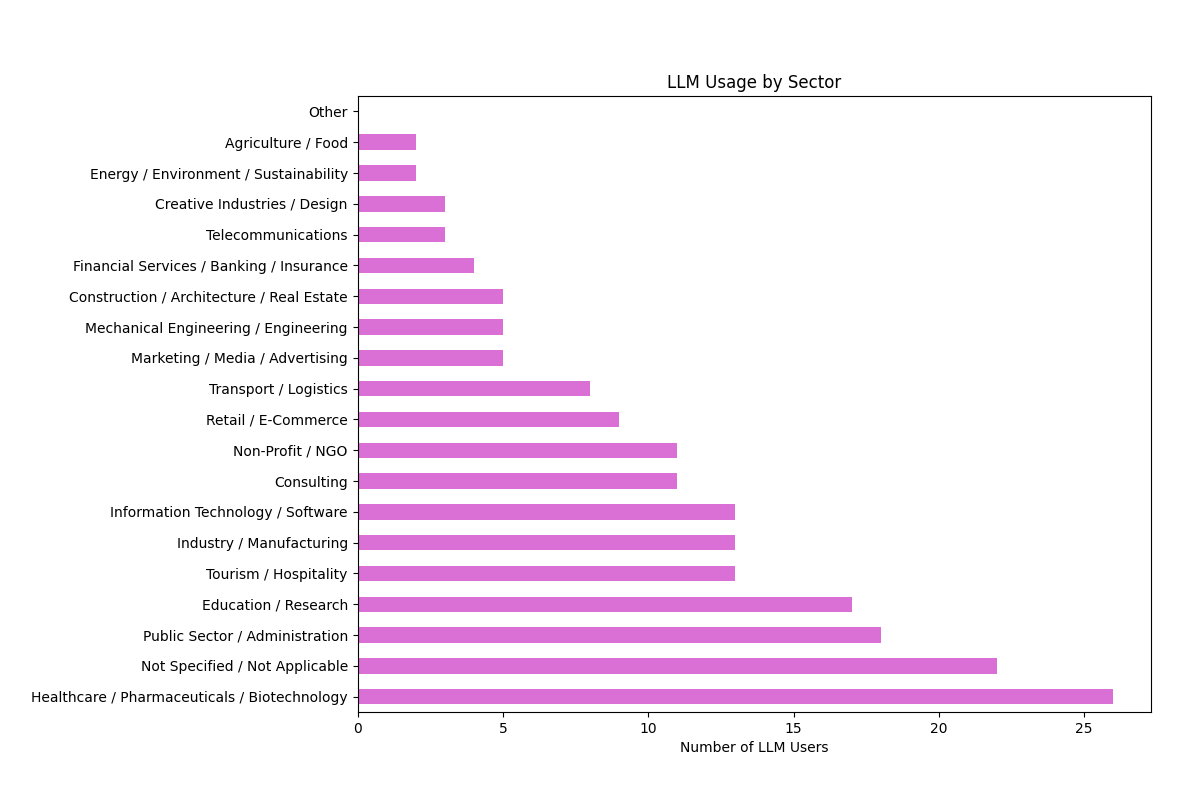
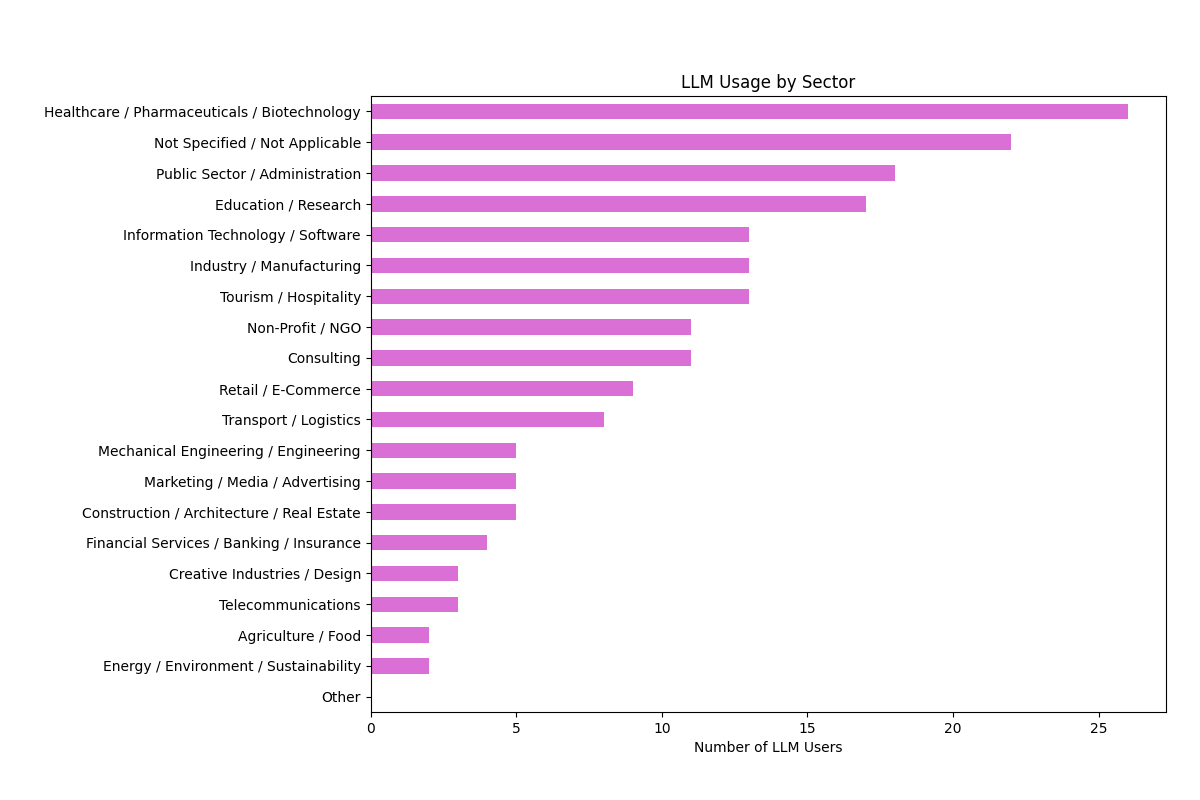
reoder sector diagram

Changed region(s): [[0.0308, 0.0938, 0.9558, 0.9375]]

diff --git a/diagrams/education_llm_usage.py b/diagrams/education_llm_usage.py
@@ -92,7 +92,7 @@ sectors = [col for col in df.columns if col.startswith('sector_')]
 for col in sectors:
     df[col] = pd.to_numeric(df[col], errors='coerce').fillna(0).astype(int)
 
-sector_counts = df[sectors].sum().sort_values(ascending=False)
+sector_counts = df[sectors].sum().sort_values(ascending=True)
 sector_counts.index = sector_counts.index.map(lambda x: sector_labels.get(x, x))
 
 sector_counts.plot(kind='barh', figsize=(12,8), color='orchid')
